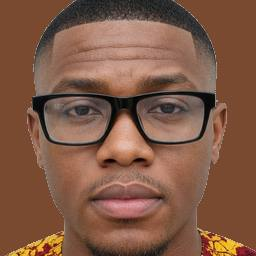
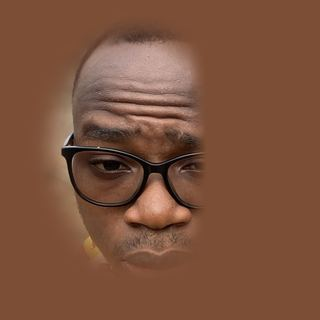
Remplacer le portrait inventé par le vrai visage d'Ibrahim.
Le recadrage de sa photo, fond et main estompés, sert de texture sur la tête et d'avatar dans le HUD.

diff --git a/src/people.js b/src/people.js
@@ -144,7 +144,7 @@ function waxTexture() {
 
 export function createIbrahim(shadows, faceUrl) {
   const g = new Group();
-  const skin = new MeshPhongMaterial({ color: 0x8a5536, shininess: 10, specular: 0x3a2014 });
+  const skin = new MeshPhongMaterial({ color: 0x7c4e36, shininess: 8, specular: 0x3a2014 });
   const hairM = new MeshLambertMaterial({ color: 0x16110e });
   const fadeM = new MeshLambertMaterial({ color: 0x3a2c24 });
   const pantsM = new MeshLambertMaterial({ color: 0x2c241c });
@@ -198,18 +198,14 @@ export function createIbrahim(shadows, faceUrl) {
   head.position.y = 1.48;
   const skull = new Mesh(new BoxGeometry(0.3, 0.34, 0.28), skin);
   skull.castShadow = shadows;
-  const face = new Mesh(new PlaneGeometry(0.29, 0.33), faceMat);
-  face.position.z = 0.145;
+  const face = new Mesh(new PlaneGeometry(0.3, 0.34), faceMat);
+  face.position.z = 0.142;
   const hairTop = new Mesh(new BoxGeometry(0.3, 0.06, 0.2), hairM);
   hairTop.position.set(0, 0.18, -0.04);
   const fade = new Mesh(new BoxGeometry(0.302, 0.08, 0.16), fadeM);
   fade.position.set(0, 0.1, -0.06);
-  const templeL = new Mesh(new BoxGeometry(0.012, 0.012, 0.14), hairM);
-  templeL.position.set(-0.15, 0.03, 0.02);
-  const templeR = templeL.clone();
-  templeR.position.x = 0.15;
 
-  head.add(skull, face, hairTop, fade, templeL, templeR);
+  head.add(skull, face, hairTop, fade);
   body.add(hips, torso, collar, armL, armR, head);
   g.add(body, legL, legR);
   g.userData.limbs = { legL, legR, armL, armR };

diff --git a/src/style.css b/src/style.css
@@ -90,7 +90,7 @@ html, body {
   flex: none;
   border-radius: 50%;
   border: 2px solid var(--gold);
-  background: #8a5536 url('./assets/ibrahim-face.jpg') center 12% / 148% no-repeat;
+  background: #7c4e36 url('./assets/ibrahim-face.jpg') center 38% / 165% no-repeat;
   pointer-events: auto;
   cursor: pointer;
   touch-action: manipulation;
